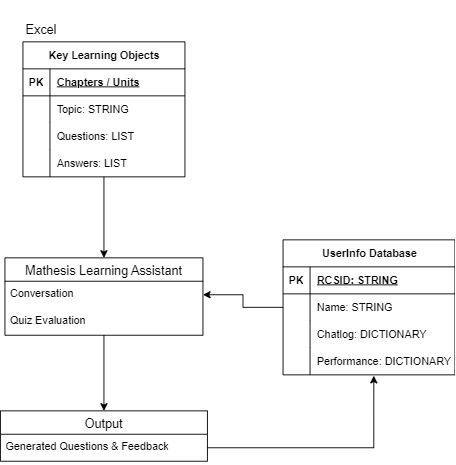
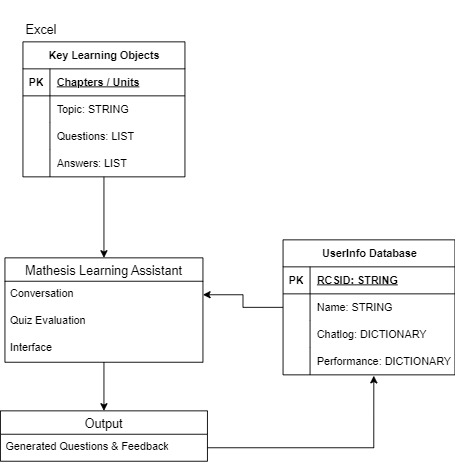
Update the reports and logical diagram

diff --git a/docs/finalReport/gptPedagogyReport.tex b/docs/finalReport/gptPedagogyReport.tex
@@ -210,6 +210,14 @@
     In our conceptual model, we outline the general structure of our project, its core components,
     and how those components relate to each other.
 
+    \begin{figure}[h]
+        \centering
+        \includegraphics[width=0.8\textwidth]{Conceptual_diagram}
+        \caption{Conceptual Model}
+        \label{fig:conceptualModel}
+    \end{figure}
+    
+
     \paragraph{Mathesis}
     The core of our project is our \textit{Mathesis}
     learning assistant, powered by GPT 3.5.  This is placed at the center of the diagram, symbolizing
@@ -243,16 +251,18 @@
     the model produces and the areas that the students may be struggling the most in.  Both scenarios
     help to guide faculty into improving the course in some way.
 
-    \begin{figure}[h]
-        \centering
-        \includegraphics[width=0.8\textwidth]{Conceptual_diagram}
-        \caption{Conceptual Model}
-        \label{fig:conceptualModel}
-    \end{figure}
+    
     \subsection{Logical Model}
     
     Our logical model both maintains the objects and relations of the conceptual model and builds upon
     them through extra details about attributes any typing.
+
+    \begin{figure}[h]
+        \centering
+        \includegraphics[width=0.8\textwidth]{Logical_diagram}
+        \caption{Logical Model}
+        \label{fig:logicalModel}
+    \end{figure}
 
     \paragraph{Mathesis and Output}
     Our learning assistant comprises two main functionalities: Conversation and Quiz Evaluation.
@@ -260,7 +270,9 @@
     topics, expanding their knowledge before formal evaluation. Quiz Evaluation is a functionality
     that grades chapter quizzes for students and records their performance. The 'Generated Questions
     \& Feedback' item in the Output object represents the quiz question generation process and the
-    responses provided by the conversation functionality of the Mathesis Learning Assistant.
+    responses provided by the conversation functionality of the Mathesis Learning Assistant. 
+    The 'Interface' object comprehensively represents the entire application, encompassing all its components and functionalities. 
+    This includes the administrative view within the Mathesis Learning Assistant, which offers a specialized perspective tailored for administrators to have an overview of students' performance.
 
     \paragraph{Key Learning Objectives}
     For the faculty, the key learning
@@ -276,12 +288,7 @@
     In the web interface, faculty have the ability to download a summary of student performance
     in either a csv or Excel format.
 
-    \begin{figure}[h]
-        \centering
-        \includegraphics[width=0.8\textwidth]{Logical_diagram}
-        \caption{Logical Model}
-        \label{fig:logicalModel}
-    \end{figure}
+
 
     \section{Prototype Implementation}
 
